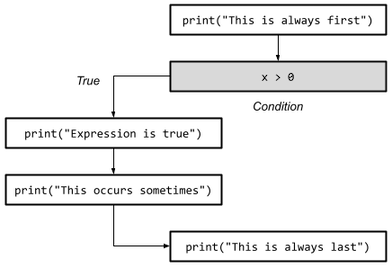
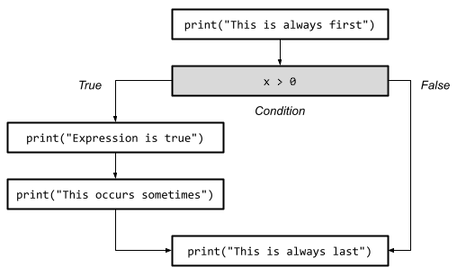
Post notes for 2021-09-06

Changed region(s): [[0.0, 0.0, 1.0, 0.9851]]

diff --git a/docs/notes/index.md b/docs/notes/index.md
@@ -6,3 +6,4 @@
 * computational thinking; errors & debugging (2021-08-30) [[Notes]](2021-08-30.notes.html) [[Worksheet]](2021-08-30.worksheet.html) [[Slides]](2021-08-30.slides.html)
 * types; variables; operators (2021-09-01) [[Notes]](2021-09-01.notes.html) [[Worksheet]](2021-09-01.worksheet.html) [[Slides]](2021-09-01.slides.html)
 * "input-process-output" programs; reassignment (2021-09-03) [[Notes]](2021-09-03.notes.html) [[Worksheet]](2021-09-03.worksheet.html) [[Slides]](2021-09-03.slides.html)
+* boolean expressions; conditionals (2021-09-06) [[Notes]](2021-09-06.notes.html) [[Worksheet]](2021-09-06.worksheet.html) [[Slides]](2021-09-06.slides.html)

diff --git a/docs/notes/2021-09-06.notes.md b/docs/notes/2021-09-06.notes.md
@@ -2,7 +2,7 @@
 _COSC 101, Introduction to Computing I, 2021-09-06_
 
 ## Announcements
-* Homework 1 due Thursday at 11pm
+* Homework 1 due Thursday at 5pm
     * Office hours today 2:30-4pm
     * Open lab hours Sunday-Thursday 7-10pm
 
@@ -10,6 +10,7 @@ _COSC 101, Introduction to Computing I, 2021-09-06_
 * Warm-up
 * Boolean expressions
 * Order of operations
+* Conditional statements
 
 ## Warm-up
 _For each program: (1) indicate what it will output, and (2) draw a reference diagram depicting the state of each variable after the program has executed._

diff --git a/docs/notes/2021-09-06.worksheet.md b/docs/notes/2021-09-06.worksheet.md
@@ -2,7 +2,7 @@
 _COSC 101, Introduction to Computing I, 2021-09-06_
 
 ## Announcements
-* Homework 1 due Thursday at 11pm
+* Homework 1 due Thursday at 5pm
     * Office hours today 2:30-4pm
     * Open lab hours Sunday-Thursday 7-10pm
 
